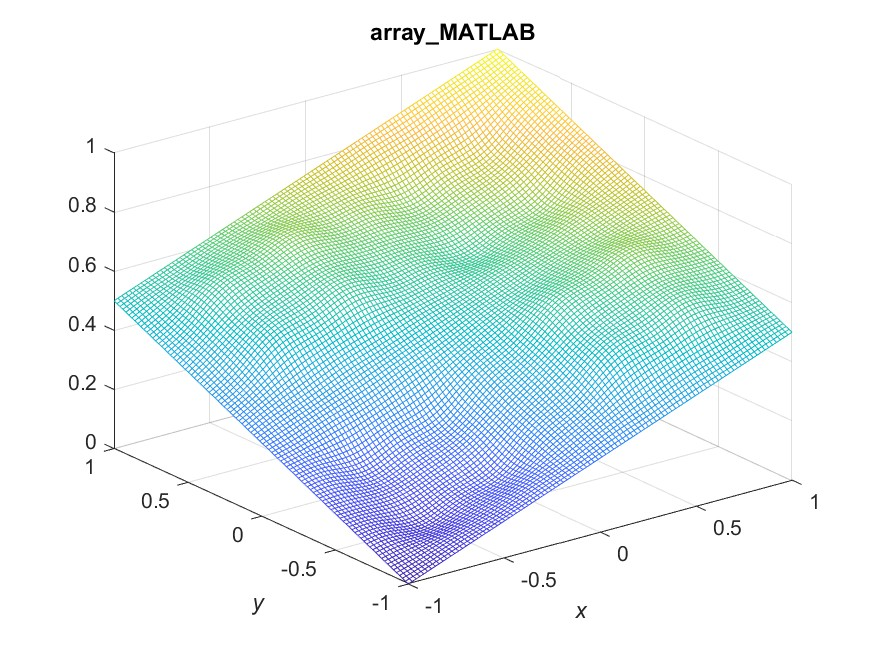
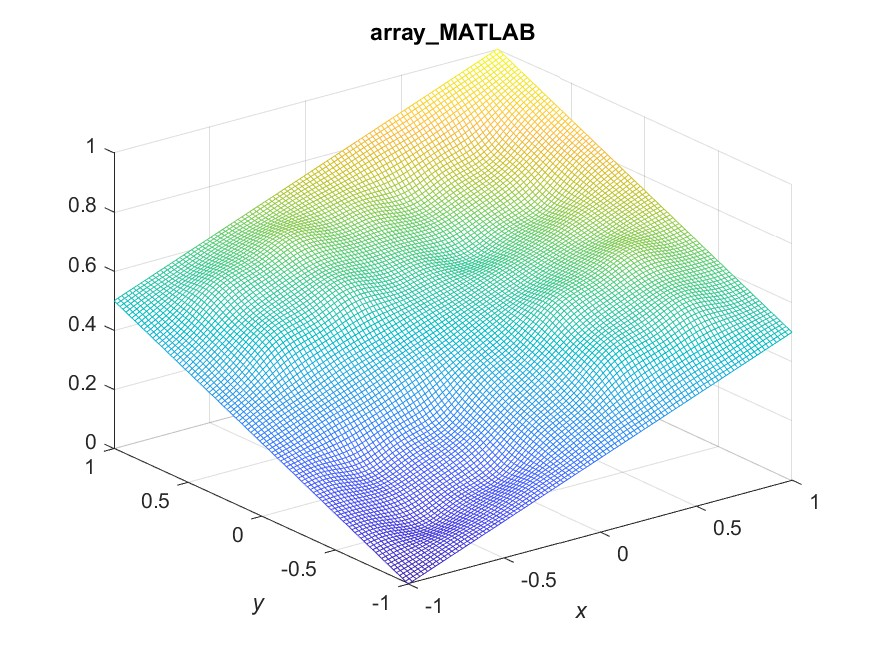
matlab using Vold..

Changed region(s): [[0.2777, 0.2744, 0.7714, 0.8232]]

diff --git a/Proj2/matlab/jacobi_d.m b/Proj2/matlab/jacobi_d.m
@@ -21,31 +21,13 @@ Vold=zeros(N,N);
 
 %% 
 
-Vnew = Vold;
 for k = 1:maxit
-%     Vnew = Vold;
+    Vnew = Vold;
     for i = 1:N
         for j = 1:N
             f = 7*sin(2*pi*x(i))*cos(3*pi*x(i))*sin(2*pi*y(j))*cos(3*pi*y(j));
 
-            i1= i+1;
-            i0 = i-1;
-            j1= j+1;
-            j0 = j-1;
-
-            if (j0 == 0)
-                j0 = N;
-            end
-            if (j1 == N+1)
-                j1 = 1;
-            end
-
-            if (i0 == 0)
-                i0 = N;
-            end
-            if (i1 == N+1)
-                i1 = 1;
-            end
+            [i00,i0,i1,i2,j00,j0,j1,j2] = getIJ(i,j,N);
                  
             Vnew(i,j)= 0.25*(Vnew(i1,j)+Vnew(i0,j)+Vnew(i,j1)+Vnew(i,j0)-h^2*f);
         end
@@ -67,3 +49,40 @@ ylabel('\it{y}')
 title('array\_MATLAB')
 
 saveas(gcf,"jac_d.jpg")
+
+%%
+function [i00,i0,i1,i2,j00,j0,j1,j2] = getIJ(i,j,N)
+    j1= j + 1;
+    j0 = j - 1;
+    j2 = j + 2;
+    j00 = j - 2;
+
+    if (j0 <= 0)
+        j0 = j0+N;
+        j00 = j00+N;
+    elseif (j1 > N)
+        j1 = j1-N;
+        j2 = j2-N;
+    elseif (j00 == 0)
+        j00 = N;
+    elseif (j2 > N)
+        j2 = 1;
+    end
+
+    i1= i + 1;
+    i0 = i - 1;
+    i2 = i + 2;
+    i00 = i - 2;
+
+    if (i0 <= 0)
+        i0 = i0+N;
+        i00 = i00+N;
+    elseif (i1 > N)
+        i1 = i1-N;
+        i2 = i2-N;
+    elseif (i00 == 0)
+        i00 = N;
+    elseif (i2 == N+1)
+        i2 = 1;
+    end
+end

diff --git a/Proj2/matlab/jacobi_b.m b/Proj2/matlab/jacobi_b.m
@@ -23,33 +23,17 @@ Vold=zeros(N,N);
 
 %% 
 
-Vnew = Vold;
 for k = 1:maxit
     Vnew = Vold;
     for i = 1:N
         for j = 1:N
             f = 7*sin(2*pi*x(i))*cos(3*pi*x(i))*sin(2*pi*y(j))*cos(3*pi*y(j));
 
-            i1= i+1;
-            i0 = i-1;
-            j1= j+1;
-            j0 = j-1;
+            [i0,i1,j0,j1] = getIJ(i,j,N);
 
-            if (j0 == 0)
-                j0 = N;
-            end
-            if (j1 > N)
-                j1 = 1;
-            end
+             Vnew(i,j)= 0.25*(Vold(i0,j)+Vold(i1,j)+Vold(i,j0)+Vold(i,j1)-h^2*f);
 
-            if (i0 == 0)
-                i0 = N;
-            end
-            if (i1 > N)
-                i1 = 1;
-            end
-
-            Vnew(i,j)= 0.25*(Vnew(i1,j)+Vnew(i0,j)+Vnew(i,j1)+Vnew(i,j0)-h^2*f);
+%             Vnew(i,j)= 0.25*(Vnew(i1,j)+Vnew(i0,j)+Vnew(i,j1)+Vnew(i,j0)-h^2*f);
         end
     end
     diff = sqrt(sum(sum((Vnew - Vold).^2))) / sqrt(sum(sum(Vnew.^2)));
@@ -69,3 +53,32 @@ ylabel('\it{y}')
 title('array\_MATLAB')
 
 saveas(gcf,"jac_b.jpg")
+
+%%
+% clc
+% i=100;
+% j=1;
+% [i0,i1,j0,j1] = getIJ(i,j,N);
+% [i0,i,i1]
+% [j0,j,j1]
+
+%%
+function [i0,i1,j0,j1] = getIJ(i,j,N)
+    j1= j + 1;
+    j0 = j - 1;
+
+    if (j0 <= 0)
+        j0 = j0+N;
+    elseif (j1 > N)
+        j1 = j1-N;
+    end
+
+    i1= i + 1;
+    i0 = i - 1;
+
+    if (i0 <= 0)
+        i0 = i0+N;
+    elseif (i1 > N)
+        i1 = i1-N;
+    end
+end

diff --git a/Proj2/matlab/jacobi_c.m b/Proj2/matlab/jacobi_c.m
@@ -22,7 +22,6 @@ W = 15/16;
 
 %% 
 tic
-Vnew = Vold;
 for k = 1:maxit
     Vnew = Vold;
     for i = 1:N
@@ -31,8 +30,11 @@ for k = 1:maxit
 
             [i00,i0,i1,i2,j00,j0,j1,j2] = getIJ(i,j,N);
 
-            Vnew(i,j)= W/60*(16*Vnew(i0,j)+16*Vnew(i1,j)+16*Vnew(i,j0)+16*Vnew(i,j1)-12*h.^2*f - ...
-                Vnew(i2,j)-Vnew(i00,j)-Vnew(i,j2)-Vnew(i,j00))+ (1-W)*Vnew(i,j);
+            Vnew(i,j)= W/60*(16*Vold(i0,j)+16*Vold(i1,j)+16*Vold(i,j0)+16*Vold(i,j1)-12*h.^2*f - ...
+                Vold(i2,j)-Vold(i00,j)-Vold(i,j2)-Vold(i,j00))+ (1-W)*Vold(i,j);
+
+%             Vnew(i,j)= W/60*(16*Vnew(i0,j)+16*Vnew(i1,j)+16*Vnew(i,j0)+16*Vnew(i,j1)-12*h.^2*f - ...
+%                 Vnew(i2,j)-Vnew(i00,j)-Vnew(i,j2)-Vnew(i,j00))+ (1-W)*Vnew(i,j);
         end
     end
     diff = sqrt(sum(sum((Vnew - Vold).^2))) / sqrt(sum(sum(Vnew.^2)));

diff --git a/Proj2/matlab/jacobi_a.m b/Proj2/matlab/jacobi_a.m
@@ -32,10 +32,15 @@ for k = 1:maxit
     Vnew = Vold;
     for i = 2:N-1
         for j = 2:N-1
-            f = 7*sin(2*pi*x(i))*cos(3*pi*x(i))*sin(2*pi*y(j))*cos(3*pi*y(j));         
-            Vnew(i,j)= 0.25*(Vnew(i+1,j)+Vnew(i-1,j)+Vnew(i,j+1)+Vnew(i,j-1)-h^2*f);
+
+            f = 7*sin(2*pi*x(i))*cos(3*pi*x(i))*sin(2*pi*y(j))*cos(3*pi*y(j));  
+
+            Vnew(i,j)= 0.25*(Vold(i+1,j)+Vold(i-1,j)+Vold(i,j+1)+Vold(i,j-1)-h^2*f);
+
+%             Vnew(i,j)= 0.25*(Vnew(i1,j)+Vnew(i0,j)+Vnew(i,j1)+Vnew(i,j0)-h^2*f);
         end
     end
+    
     diff = sqrt(sum(sum((Vnew - Vold).^2))) / sqrt(sum(sum(Vnew.^2)));
     if diff < tolerancia
         break;
